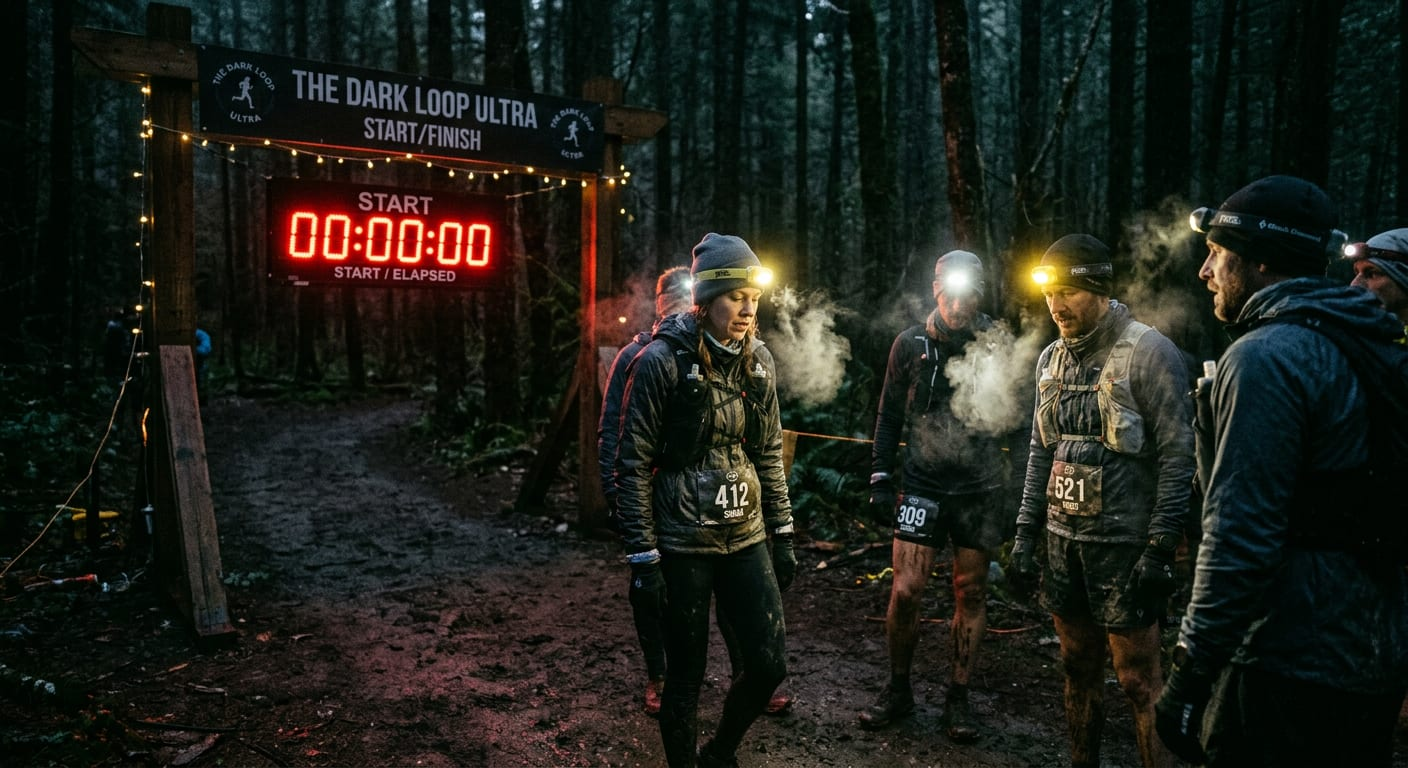
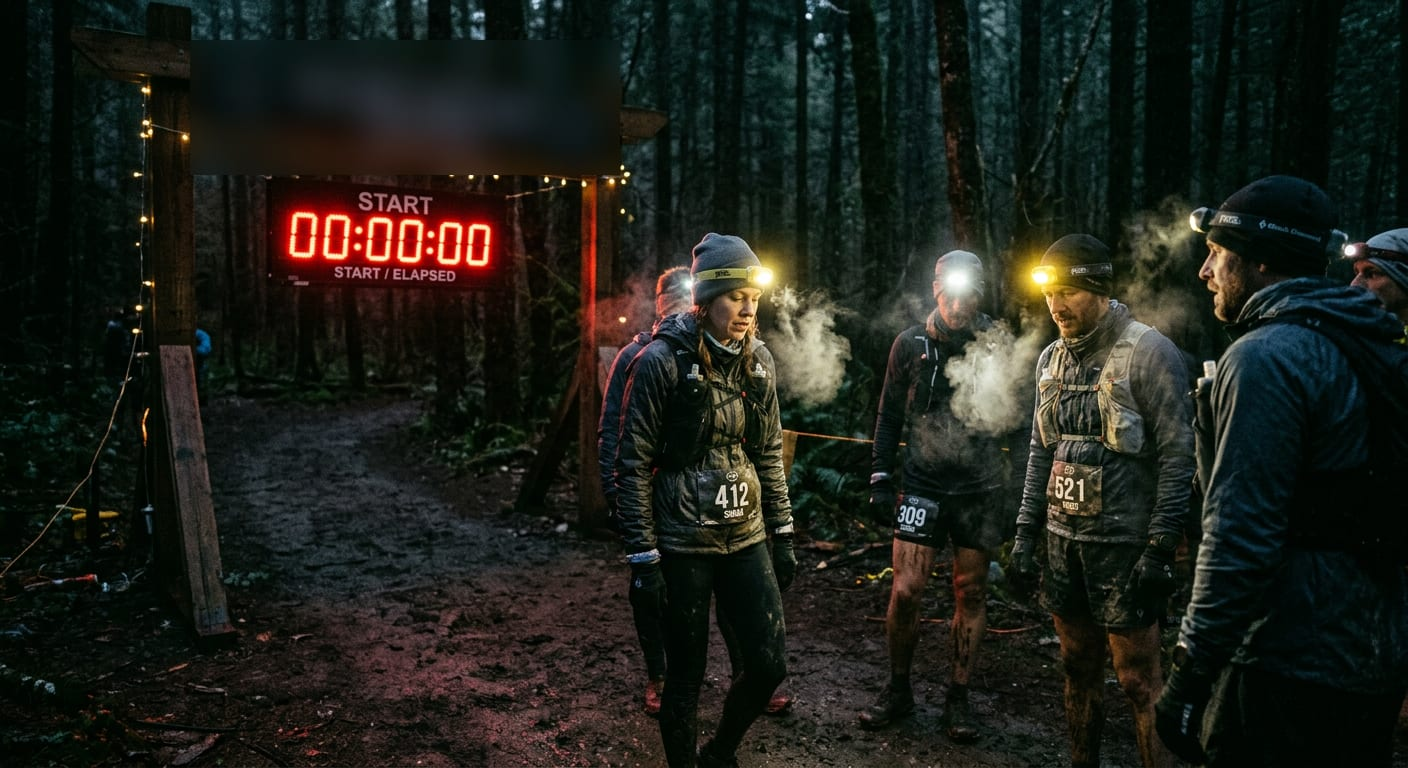
Melhorias estéticas: logótipo, animações e imagens sem marcas de terceiros
- Logótipo "X" na navbar e nome maior
- Animações: contagem de números, hero a assentar, filete das etiquetas, faixa dos princípios
- Tratamento de cor comum às fotografias; animações de entrada mais rápidas
- Rótulos das estatísticas mais legíveis
- Backyard com placa desfocada; gallery-4 retirada do site (marcas de terceiros)

Changed region(s): [[0.125, 0.0625, 0.4375, 0.25]]

diff --git a/app/globals.css b/app/globals.css
@@ -113,10 +113,10 @@ body {
 /* Reveal animations — toggled by the <Reveal> component via data-visible */
 .reveal {
   opacity: 0;
-  transform: translate3d(0, 28px, 0);
+  transform: translate3d(0, 20px, 0);
   transition:
-    opacity 1.1s cubic-bezier(0.16, 1, 0.3, 1),
-    transform 1.1s cubic-bezier(0.16, 1, 0.3, 1);
+    opacity 0.8s cubic-bezier(0.16, 1, 0.3, 1),
+    transform 0.8s cubic-bezier(0.16, 1, 0.3, 1);
   transition-delay: var(--reveal-delay, 0ms);
 }
 .reveal[data-visible='true'] {
@@ -137,7 +137,7 @@ body {
 .reveal-line > span {
   display: block;
   transform: translate3d(0, 110%, 0);
-  transition: transform 1.2s cubic-bezier(0.16, 1, 0.3, 1);
+  transition: transform 0.9s cubic-bezier(0.16, 1, 0.3, 1);
   transition-delay: var(--reveal-delay, 0ms);
 }
 [data-visible='true'] .reveal-line > span {
@@ -221,7 +221,7 @@ body {
 /* Micro-texto técnico (números de secção, coordenadas, legendas) */
 .tech {
   font-family: var(--font-mono);
-  font-size: 0.6875rem;
+  font-size: 0.75rem;
   letter-spacing: 0.2em;
   text-transform: uppercase;
 }
@@ -234,6 +234,13 @@ body {
 .text-outline-primary {
   color: transparent;
   -webkit-text-stroke: 1.5px var(--primary);
+}
+
+/* Tratamento de cor comum a todas as fotografias (cor, preto e branco, noite) para parecerem da mesma série */
+@layer base {
+  main img {
+    filter: saturate(0.88) contrast(1.06) brightness(0.96);
+  }
 }
 
 /* Vinheta e leitura de texto sobre imagem */
@@ -275,4 +282,47 @@ dialog.lightbox {
 }
 dialog.lightbox::backdrop {
   background: transparent;
+}
+
+/* ───────── Movimento com propósito ───────── */
+
+/* Hero: a imagem assenta devagar ao carregar a página */
+@keyframes hero-settle {
+  from { scale: 1.12; }
+  to { scale: 1; }
+}
+.hero-settle {
+  animation: hero-settle 2.8s cubic-bezier(0.16, 1, 0.3, 1) both;
+}
+
+/* Etiquetas de secção: o filete laranja desenha-se quando a etiqueta aparece */
+.reveal.eyebrow::before {
+  transform: scaleX(0);
+  transform-origin: left;
+  transition: transform 0.9s cubic-bezier(0.16, 1, 0.3, 1) calc(var(--reveal-delay, 0ms) + 200ms);
+}
+.reveal.eyebrow[data-visible='true']::before {
+  transform: none;
+}
+
+/* Faixa dos princípios: deslocamento lento e contínuo; pausa ao passar o rato */
+@keyframes marquee {
+  to { transform: translate3d(-50%, 0, 0); }
+}
+.marquee-track {
+  animation: marquee 45s linear infinite;
+}
+.marquee:hover .marquee-track {
+  animation-play-state: paused;
+}
+
+@media (prefers-reduced-motion: reduce) {
+  .hero-settle,
+  .marquee-track {
+    animation: none;
+  }
+  .reveal.eyebrow::before {
+    transform: none !important;
+    transition: none !important;
+  }
 }

diff --git a/components/count-up.tsx b/components/count-up.tsx
@@ -1,0 +1,67 @@
+'use client'
+
+import { useEffect, useRef, useState } from 'react'
+
+/** Só anima inteiros simples ("04", "12", "300 €"); valores como "6,706 km" ou "Várias" ficam como estão. */
+const ANIMATABLE = /^(\d+)(\s.*)?$/
+
+/**
+ * Conta de 0 até ao valor quando entra no ecrã. O HTML do servidor já traz o valor final,
+ * por isso sem JavaScript, ou com movimento reduzido, nada muda.
+ */
+export function CountUp({ value }: { value: string }) {
+  const match = ANIMATABLE.exec(value)
+  const ref = useRef<HTMLSpanElement>(null)
+  const [display, setDisplay] = useState(value)
+
+  useEffect(() => {
+    const node = ref.current
+    if (!node || !match || window.matchMedia('(prefers-reduced-motion: reduce)').matches) return
+
+    const [, digits, rest = ''] = match
+    const target = Number(digits)
+    const width = digits.length
+    let frame = 0
+    let started = false
+
+    setDisplay(`${'0'.repeat(width)}${rest}`)
+
+    const run = () => {
+      const duration = 1400
+      const start = performance.now()
+      const tick = (now: number) => {
+        const progress = Math.min(1, (now - start) / duration)
+        const eased = 1 - Math.pow(1 - progress, 3)
+        setDisplay(`${String(Math.round(target * eased)).padStart(width, '0')}${rest}`)
+        if (progress < 1) frame = requestAnimationFrame(tick)
+      }
+      frame = requestAnimationFrame(tick)
+    }
+
+    const observer = new IntersectionObserver(
+      ([entry]) => {
+        if (entry.isIntersecting && !started) {
+          started = true
+          observer.disconnect()
+          run()
+        }
+      },
+      { threshold: 0.6 },
+    )
+    observer.observe(node)
+
+    return () => {
+      observer.disconnect()
+      if (frame) cancelAnimationFrame(frame)
+    }
+    // eslint-disable-next-line react-hooks/exhaustive-deps
+  }, [value])
+
+  return (
+    <span ref={ref} aria-label={value}>
+      <span aria-hidden className="tabular-nums">
+        {display}
+      </span>
+    </span>
+  )
+}

diff --git a/lib/site-data.ts b/lib/site-data.ts
@@ -287,6 +287,6 @@ export const galleryItems: GalleryItem[] = [
   { type: 'image', src: '/images/gallery-3.jpg', alt: 'Corredores a atravessar um planalto de montanha com nevoeiro, ao amanhecer', className: 'md:col-span-8 md:row-span-2 aspect-[4/3] md:aspect-auto' },
   { type: 'image', src: '/images/gallery-1.jpg', alt: 'Atleta coberto de lama, ofegante, à chuva', className: 'md:col-span-4 aspect-[4/5]' },
   { type: 'image', src: '/images/gallery-2.jpg', alt: 'Mãos a fazer um nó de corda junto a uma bússola e a um mapa', className: 'md:col-span-4 aspect-[4/5]' },
-  { type: 'image', src: '/images/gallery-4.jpg', alt: 'Sapatilhas de trail enlameadas a cruzar a meta durante a noite', className: 'md:col-span-5 aspect-[4/3]' },
+  { type: 'image', src: '/images/last-one-out.jpg', alt: 'Uma multidão dentro de um círculo pintado no chão, à noite', className: 'md:col-span-5 aspect-[4/3]' },
   { type: 'placeholder', label: 'Em breve', hint: 'Fotografias, vídeos e conteúdos dos eventos', className: 'md:col-span-7 aspect-[4/3] md:aspect-auto md:min-h-[18rem]' },
 ]

diff --git a/components/stats.tsx b/components/stats.tsx
@@ -1,5 +1,6 @@
 import type { Stat } from '@/lib/site-data'
 import { cn } from '@/lib/utils'
+import { CountUp } from './count-up'
 
 const sizes = {
   md: 'text-2xl sm:text-4xl lg:text-5xl',
@@ -47,9 +48,9 @@ export function Stats({
           >
             {/* marca técnica sobre a linha superior */}
             <span aria-hidden className="absolute -top-px left-0 h-px w-6 bg-primary" />
-            <dt className="tech order-2 min-w-0 text-[9px] tracking-[0.1em] text-muted-foreground [overflow-wrap:anywhere] sm:text-[10px] sm:tracking-[0.2em] md:text-[11px]">{stat.label}</dt>
+            <dt className="tech order-2 min-w-0 text-[10px] tracking-[0.1em] text-white/70 [overflow-wrap:anywhere] sm:text-[11px] sm:tracking-[0.2em] md:text-xs">{stat.label}</dt>
             <dd className={cn('order-1 text-balance font-display uppercase leading-[0.9] text-white', four && size === 'hero' ? 'text-4xl sm:text-5xl xl:text-6xl' : sizes[size])}>
-              {stat.value}
+              <CountUp value={stat.value} />
             </dd>
           </div>
         ))}

diff --git a/components/marquee.tsx b/components/marquee.tsx
@@ -1,0 +1,26 @@
+import { principles } from '@/lib/site-data'
+
+/** Faixa decorativa com os quatro princípios da marca, em movimento lento e contínuo. */
+export function Marquee() {
+  const row = (
+    <ul className="flex shrink-0 items-center">
+      {principles.map((p) => (
+        <li key={p.title} className="flex items-center">
+          <span className="text-outline px-8 font-display text-6xl uppercase leading-none md:px-12 md:text-8xl">{p.title}</span>
+          <svg aria-hidden viewBox="0 0 64 64" className="size-6 shrink-0 text-primary md:size-8" fill="currentColor">
+            <path d="M16 14h11l5 8.5L37 14h11L37.5 32 48 50H37l-5-8.5L27 50H16l10.5-18L16 14Z" />
+          </svg>
+        </li>
+      ))}
+    </ul>
+  )
+
+  return (
+    <div aria-hidden className="marquee overflow-hidden border-y border-white/10 bg-background py-8 md:py-12">
+      <div className="marquee-track flex w-max">
+        {row}
+        {row}
+      </div>
+    </div>
+  )
+}

diff --git a/components/navbar.tsx b/components/navbar.tsx
@@ -53,10 +53,12 @@ export function Navbar() {
       <nav className="mx-auto flex h-16 max-w-[1600px] items-center justify-between px-5 md:h-20 md:px-10" aria-label="Principal">
         <Link
           href="/"
-          className="relative z-50 flex min-h-11 items-center gap-2 font-display text-xl uppercase tracking-[0.12em] md:text-2xl"
+          className="relative z-50 flex min-h-11 items-center gap-2 font-display text-2xl uppercase tracking-[0.12em] md:text-3xl"
           aria-label={`${brand.name} — página inicial`}
         >
-          <span aria-hidden className="size-1.5 rounded-full bg-primary" />
+          <svg aria-hidden viewBox="0 0 64 64" className="size-6 text-primary md:size-7" fill="currentColor">
+            <path d="M16 14h11l5 8.5L37 14h11L37.5 32 48 50H37l-5-8.5L27 50H16l10.5-18L16 14Z" />
+          </svg>
           {brand.name}
         </Link>
 

diff --git a/app/page.tsx b/app/page.tsx
@@ -4,6 +4,7 @@ import { FaqSection } from '@/components/faq-section'
 import { FinisherSection } from '@/components/finisher-section'
 import { Gallery } from '@/components/gallery'
 import { Hero } from '@/components/hero'
+import { Marquee } from '@/components/marquee'
 import { NextEvent } from '@/components/next-event'
 import { WhySection } from '@/components/why-section'
 
@@ -12,6 +13,7 @@ export default function Home() {
     <>
       <Hero />
       <ChallengeSection />
+      <Marquee />
       <NextEvent />
       <WhySection />
       <FinisherSection />

diff --git a/app/about/page.tsx b/app/about/page.tsx
@@ -23,7 +23,7 @@ export default function AboutPage() {
         eyebrow="Sobre nós"
         lines={["Desafios para", "ir mais longe."]}
         description={brand.mission}
-        image={{ src: "/images/gallery-4.jpg", alt: "Sapatilhas de trail enlameadas a cruzar a meta durante a noite", position: "50% 60%" }}
+        image={{ src: "/images/urban.jpg", alt: "Uma corredora a correr por ruas de calçada molhada durante a noite", position: "50% 50%" }}
       />
 
       {/* MISSÃO */}

diff --git a/components/hero.tsx b/components/hero.tsx
@@ -17,7 +17,7 @@ export function Hero() {
           fill
           priority
           sizes="100vw"
-          className="object-cover object-[0%_center]"
+          className="hero-settle object-cover object-[0%_center]"
         />
       </Parallax>
       <div aria-hidden className="absolute inset-0 -z-20 bg-background/10" />
